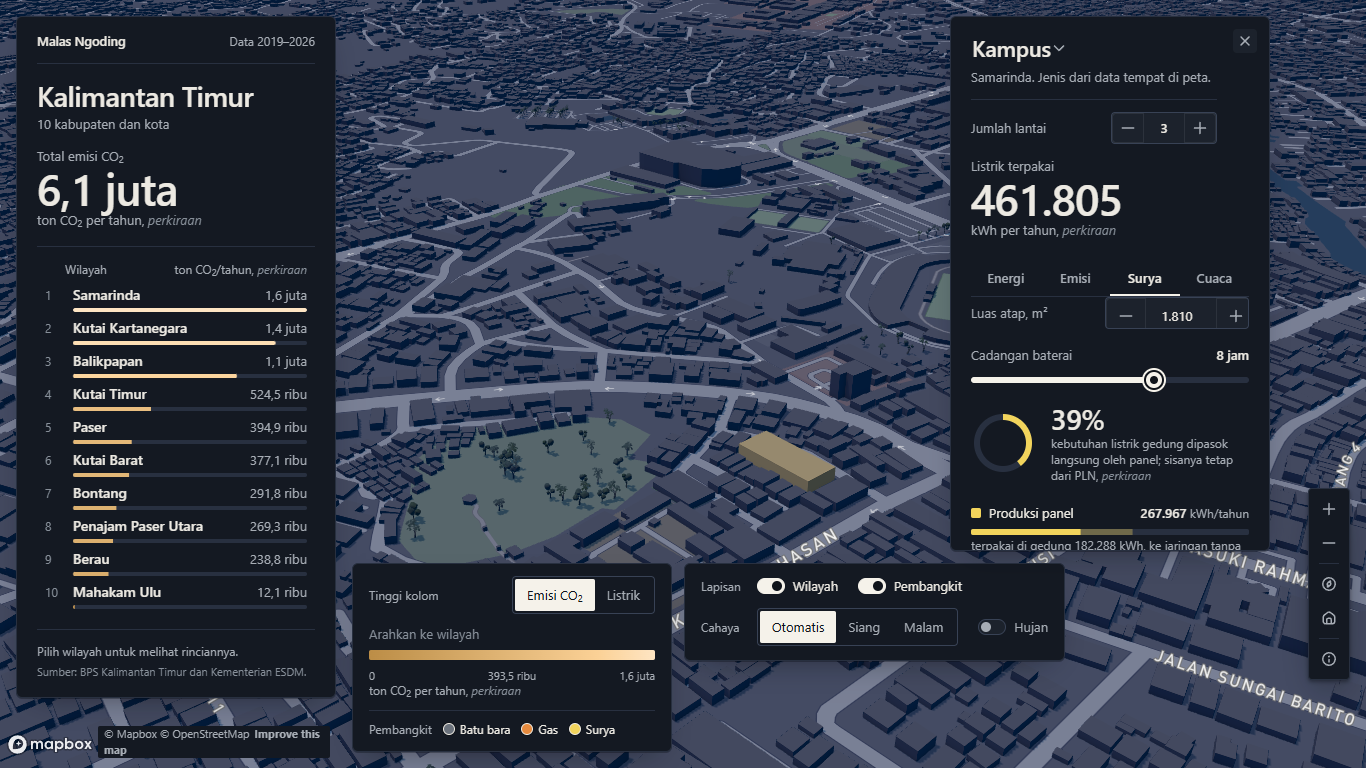
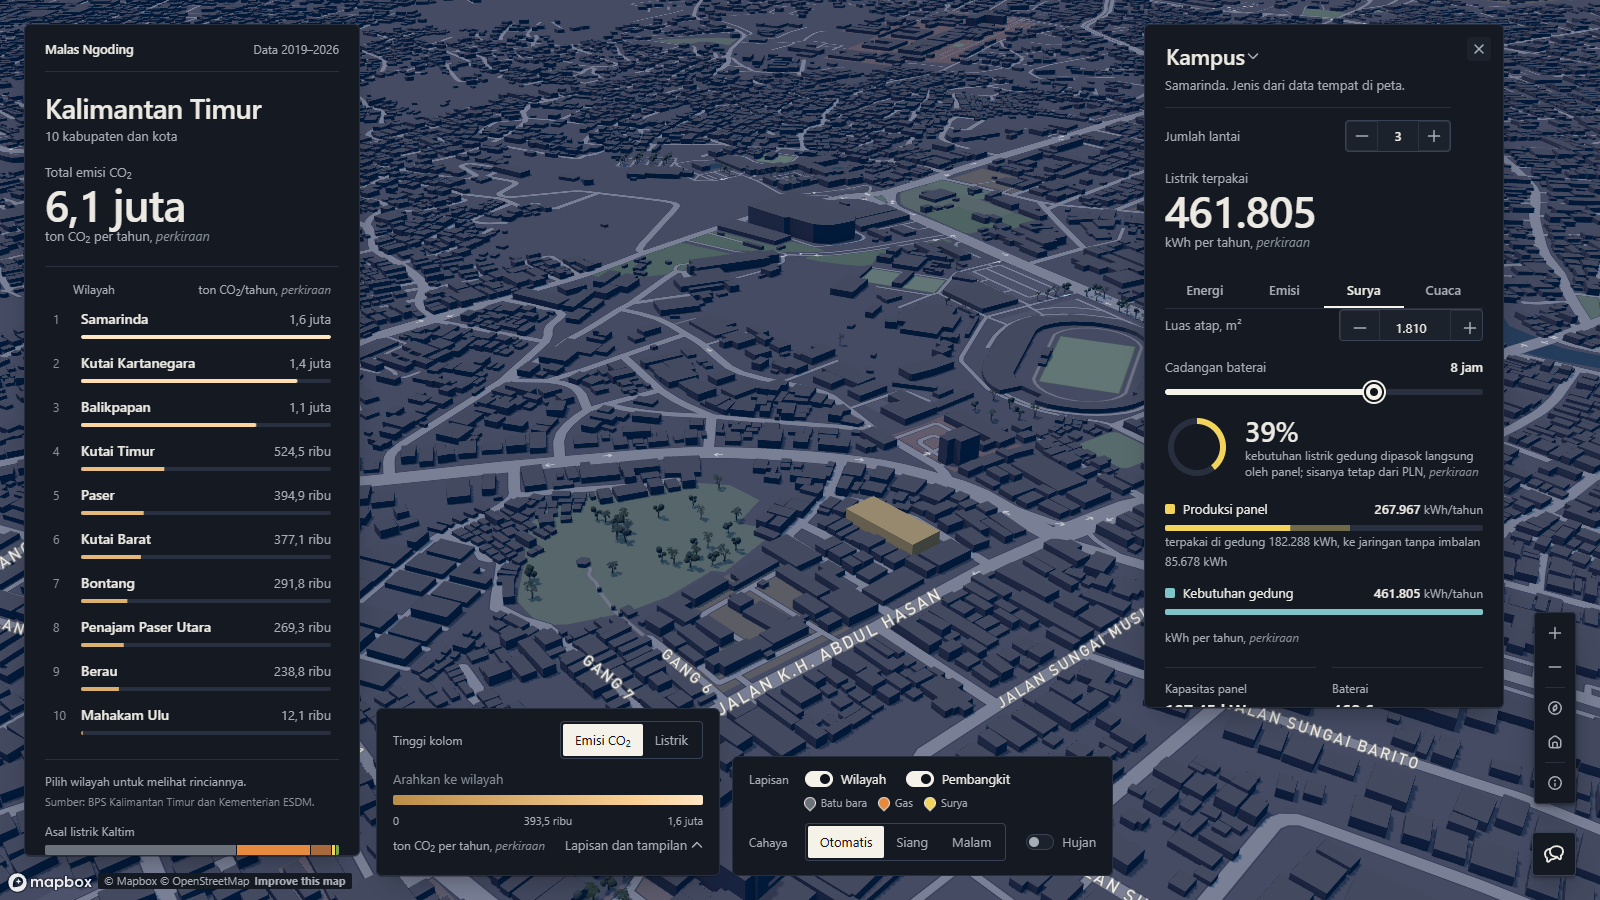
docs(repo): describe the plant pins and lapisan dan tampilan, add the equivalents route and retake the screens

diff --git a/docs/technical/demo-script.md b/docs/technical/demo-script.md
@@ -12,9 +12,10 @@ Lakukan 15 menit sebelum mulai, bukan di depan juri.
 2. **Server.** `bun start` (mode produksi, lebih ringan) atau `bun dev`. Buka `http://localhost:3000` di Chrome atau Edge terbaru dengan WebGL aktif, layar penuh (F11), zoom browser 100%.
 3. **Kunci AI.** `.env` harus berisi `MAPBOX_TOKEN` publik dan `ANTHROPIC_API_KEY` asli. Buka panel chat sekali: bila tertulis "Asisten AI belum aktif", kunci belum terbaca dan chat tidak akan menjawab (lihat bagian Cadangan).
 4. **Pemanasan cache gedung.** Cari gedung demo (lihat langkah 4 di bawah), klik, dan buka keempat tabnya sekali, termasuk Cuaca. Itu mengisi cache POI, klimatologi NASA, dan prakiraan Open-Meteo (segar 1 jam; bila sumbernya mati, prakiraan lama tetap dipakai). Tutup panel lalu muat ulang halaman.
-5. **Cahaya.** Untuk tampilan paling dramatis pakai malam: buka `http://localhost:3000/?cahaya=night`. Saklar "Cahaya" tetap bisa diubah di tengah demo. Garis hujan terlihat di semua cahaya (di cahaya terang peta menambah kabut tipis supaya garisnya tampak).
-6. **Cadangan visual.** Buka `docs/technical/screens/` di tab lain (map, building, solar, chat, rain) dan siapkan PDF dokumentasi. Itu bahan bila peta tidak bisa dimuat.
-7. **Tutup** semua notifikasi dan tab lain. Matikan jeda layar.
+5. **Cahaya.** Untuk tampilan paling dramatis pakai malam: buka `http://localhost:3000/?cahaya=night`. Saklar "Cahaya" tetap bisa diubah di tengah demo, dari balik tombol "Lapisan dan tampilan" (lihat langkah 6). Garis hujan terlihat di semua cahaya (di cahaya terang peta menambah kabut tipis supaya garisnya tampak).
+6. **Lapisan dan tampilan.** Kartu legenda di bawah hanya menampilkan saklar "Tinggi kolom" dan meter. Saklar Wilayah dan Pembangkit, kunci warna pembangkit, Cahaya, dan Hujan ada di balik tombol teks **Lapisan dan tampilan** di ujung kanan baris satuan legenda. Coba buka dan tutup sekali supaya tahu letaknya, lalu biarkan **tertutup** sebelum mulai: keadaan buka-tutupnya diingat selama tab browser masih terbuka. Bukalah di tengah demo hanya saat perlu: sebelum mengganti Cahaya, dan sebelum bagian 5 (Hujan).
+7. **Cadangan visual.** Buka `docs/technical/screens/` di tab lain (map, building, solar, chat, rain) dan siapkan PDF dokumentasi. Itu bahan bila peta tidak bisa dimuat.
+8. **Tutup** semua notifikasi dan tab lain. Matikan jeda layar.
 
 ## Alur demo
 
@@ -24,7 +25,7 @@ Lakukan 15 menit sebelum mulai, bukan di depan juri.
 | 0:45 | 2. Ringkasan provinsi | Daftar peringkat, saklar Tinggi kolom, pembangkit |
 | 1:45 | 3. Rincian wilayah | Klik Samarinda, lalu Kutai Barat, buka rekomendasi |
 | 2:45 | 4. Klik gedung | Energi, Emisi, ganti jenis, Surya, Cuaca |
-| 4:30 | 5. Hujan | Saklar Hujan di tingkat gedung |
+| 4:30 | 5. Hujan | Buka "Lapisan dan tampilan", lalu saklar Hujan di tingkat gedung |
 | 5:00 | 6. Chat | Tiga sampai empat pertanyaan yang menggerakkan peta |
 | 6:15 | 7. Metodologi dan penutup | Tentang peta ini, Cara menghitung dan sumber data |
 
@@ -40,15 +41,16 @@ Lakukan 15 menit sebelum mulai, bukan di depan juri.
   1. Tunjuk angka besar di panel kiri: total emisi sekitar 6,1 juta ton CO2 per tahun, perkiraan.
   2. Arahkan penunjuk ke kolom Samarinda, lalu ke deretan di daftar peringkat. Kolom terangkat, tooltip muncul, dan jarum meter di legenda berayun.
   3. Di kartu legenda, ganti "Tinggi kolom" dari Emisi CO2 ke Listrik dan kembali. Tinggi dan warna kolom bergerak.
-  4. Arahkan penunjuk ke satu titik pembangkit untuk memperlihatkan nama, bahan bakar, kapasitas, dan "Lokasi perkiraan".
-- **Ucapan.** *"Tinggi kolom adalah emisi per tahun. Samarinda, Kutai Kartanegara, dan Balikpapan paling tinggi. Titik berwarna adalah 13 pembangkit, abu-abu untuk batu bara. Sebagian besar listrik kita berasal dari batu bara. Semua angka ini perkiraan, kami tulis sumbernya."*
+  4. Arahkan penunjuk ke satu pin pembangkit untuk memperlihatkan nama, bahan bakar, kapasitas, dan "Lokasi perkiraan". Pin berdiri di puncak kolom wilayahnya; kepalanya berwarna menurut bahan bakar, dan pin berangka adalah beberapa pembangkit yang berdekatan (klik untuk memisahkannya).
+- **Ucapan.** *"Tinggi kolom adalah emisi per tahun. Samarinda, Kutai Kartanegara, dan Balikpapan paling tinggi. Pin berwarna adalah 13 pembangkit, abu-abu untuk batu bara. Sebagian besar listrik kita berasal dari batu bara. Semua angka ini perkiraan, kami tulis sumbernya."*
+- **Catatan.** Kunci warna bahan bakar ada di bawah saklar Pembangkit, di balik "Lapisan dan tampilan". Tidak perlu dibuka di bagian ini; tooltip pin sudah menyebut bahan bakarnya.
 
 ### 3. Rincian wilayah dan rekomendasi (1:45 sampai 2:45)
 
 - **Aksi.**
   1. Klik Samarinda (kolom atau baris daftar). Kamera terbang dan panel kiri berganti ke rincian: emisi, bagian dari listrik Kaltim, listrik per orang, penduduk, pelanggan PLN, rasio elektrifikasi, dan asal listrik Kaltim.
   2. Gulir panel ke kartu **Rekomendasi untuk Pemkot Samarinda**. Buka satu butir (butir pertama sudah terbuka): prioritas, kategori, isi, dampak yang diharapkan.
-  3. Klik "Semua wilayah", lalu klik **Kutai Barat**. Tunjuk "Desa belum dilayani PLN" (21 desa) dan buka rekomendasi pertamanya, yang pada salinan tersimpan saat ini berjudul "Usulkan listrik PLN untuk 21 desa belum berlistrik". Samarinda, yang listriknya sudah merata, mendapat saran pertama tentang PLTS atap di gedung pemerintah.
+  3. Klik "Semua wilayah", lalu klik **Kutai Barat**. Tunjuk "Desa belum dilayani PLN" (21 desa) dan buka rekomendasi pertamanya, yang pada salinan tersimpan saat ini berjudul "Usulkan penyambungan listrik PLN untuk 21 desa". Samarinda, yang listriknya sudah merata, mendapat saran pertama tentang PLTS atap di gedung pemerintah.
 - **Ucapan.** *"Untuk tiap kabupaten dan kota ada rekomendasi bagi pemerintah daerah. Claude menulisnya dari data wilayah itu saja, jadi Kutai Barat yang punya desa belum berlistrik mendapat saran yang berbeda dari Samarinda. Tulisan di kartu menyebut bahwa ini ditulis AI dan perlu diperiksa."*
 - **Catatan.** Kartu menulis "Ditulis AI (model) pada ..." bila rekomendasi dari Claude, dan "Berbasis aturan" bila AI tidak ada. Keduanya sah untuk demo.
 
@@ -66,9 +68,9 @@ Lakukan 15 menit sebelum mulai, bukan di depan juri.
 
 ### 5. Hujan (4:30 sampai 5:00)
 
-- **Aksi.** Pada pembesaran gedung (15 atau lebih), nyalakan saklar **Hujan** di kartu "Lapisan dan suasana peta". Garis hujan turun di atas gedung. Bila saat demo memang sedang hujan di Samarinda, hujan menyala sendiri (mode otomatis) dan keterangan di bawah saklar menulis "Sedang hujan di sini menurut prakiraan Open-Meteo".
+- **Aksi.** Pada pembesaran gedung (15 atau lebih), klik **Lapisan dan tampilan** di ujung kanan baris satuan legenda. Kartu kontrol terbuka di samping legenda. Nyalakan saklar **Hujan** di baris Cahaya. Garis hujan turun di atas gedung. Bila saat demo memang sedang hujan di Samarinda, hujan menyala sendiri (mode otomatis) dan keterangan di bawah saklar menulis "Sedang hujan di sini menurut prakiraan Open-Meteo".
 - **Ucapan.** *"Saklar hujan bawaannya otomatis: peta ikut hujan bila prakiraan di pusat peta mengatakan sedang hujan. Di tampilan provinsi efeknya sengaja tidak tampak, supaya tidak menutupi kolom."*
-- **Catatan.** Matikan lagi saklarnya sebelum ke bagian chat.
+- **Catatan.** Matikan lagi saklarnya, lalu tutup "Lapisan dan tampilan" (klik tombol yang sama) sebelum ke bagian chat, supaya legenda kembali satu kartu.
 
 ### 6. Chat yang menggerakkan peta (5:00 sampai 6:15)
 
@@ -76,7 +78,7 @@ Buka tombol chat di pojok kanan bawah. Pakai pertanyaan di bawah, berurutan. Jaw
 
 | Pertanyaan | Yang terjadi kira-kira | Yang ditunjukkan |
 |---|---|---|
-| "Wilayah mana emisinya paling tinggi?" | Claude memanggil `list_regions`, lalu aksi `show_all_regions` dan `set_metric`. Peta kembali ke seluruh Kaltim dan mengurutkan menurut emisi. | Angka datang dari alat, bukan ingatan |
+| "Wilayah mana emisinya paling tinggi?" | Claude memanggil `list_regions`, lalu aksi `set_metric` dan `fly_to_region` ke wilayah tertinggi (Samarinda). Peta terbang ke wilayah itu, di sebelah kiri panel chat. Pertanyaan yang membandingkan semua wilayah memakai `show_all_regions`: seluruh Kaltim tampil di sebelah kiri panel chat. | Angka datang dari alat, bukan ingatan |
 | "Tunjukkan gedung sekolah di Samarinda" | `find_places` mencari sekolah, lima tempat ditandai di peta, lalu aksi `select_building_at` memilih satu gedung dan panel gedung terbuka dengan jenis Sekolah. | Chat menggerakkan peta dan membuka panel |
 | "Kalau gedung ini pakai panel surya?" | `simulate_solar` dengan data gedung terpilih, lalu aksi `open_tab` membuka tab Surya. | Angka chat sama dengan angka tab Surya |
 | "Besok hujan? Berapa listrik suryanya?" | `get_weather`, lalu tab Cuaca terbuka. | Prakiraan dan produksi panel |

diff --git a/README.md b/README.md
@@ -13,12 +13,13 @@ Semua angka per gedung dan per wilayah adalah **perkiraan** hasil model, bukan d
 ## Fitur
 
 - **Peta 3D Kalimantan Timur.** Peta Mapbox Standard dengan medan 3D. Sepuluh kabupaten dan kota berdiri sebagai kolom 3D; tinggi dan warnanya menurut emisi CO2 per tahun atau listrik terpakai (saklar "Tinggi kolom"). Arahkan penunjuk untuk melihat nilainya, klik untuk membuka rincian: penduduk, pelanggan PLN, rasio elektrifikasi, desa yang belum dilayani PLN, listrik per orang, dan asal listrik Kaltim. Pembukanya animasi kamera dari globe ke Kalimantan Timur.
-- **Pembangkit listrik.** Tiga belas pembangkit tampil sebagai titik berwarna menurut bahan bakar dan berukuran menurut MW; pembangkit yang berdekatan digabung menjadi satu penanda berangka. Arahkan penunjuk untuk melihat nama, bahan bakar, dan kapasitasnya; keterangan menampilkan status, dan "Lokasi perkiraan" bila koordinatnya belum pasti (9 dari 13).
+- **Pembangkit listrik.** Tiga belas pembangkit tampil sebagai pin yang berdiri di puncak kolom wilayahnya, kepalanya berwarna menurut bahan bakar dan berukuran menurut MW; pembangkit yang berdekatan digabung menjadi satu pin berangka. Arahkan penunjuk untuk melihat nama, bahan bakar, dan kapasitasnya; keterangan menampilkan status, dan "Lokasi perkiraan" bila koordinatnya belum pasti (9 dari 13).
+- **Legenda dan "Lapisan dan tampilan".** Kartu legenda di bawah selalu tampil: saklar "Tinggi kolom" dan meter dengan jarumnya. Saklar lapisan (Wilayah, Pembangkit, dengan kunci warna bahan bakar di bawahnya), Cahaya, dan Hujan ada di balik tombol teks "Lapisan dan tampilan" di ujung kanan legenda. Tombol itu tertutup di awal sesi dan keadaannya diingat selama sesi.
 - **Cahaya dan hujan.** Cahaya peta mengikuti jam di Kalimantan Timur (fajar, siang, senja, malam) atau dikunci lewat saklar "Cahaya". Saklar "Hujan" bawaannya otomatis: peta ikut hujan bila prakiraan Open-Meteo di pusat peta mengatakan sedang hujan, dan efeknya terlihat saat peta diperbesar sampai tingkat gedung. Saklar itu juga bisa menyalakan atau mematikan hujan secara manual.
 - **Klik gedung mana pun.** Panel gedung menampilkan perkiraan listrik per tahun dan per bulan (tab Energi), bauran sumber listrik di baliknya, CO2 per tahun, dan padanan yang mudah dibayangkan: km naik mobil, pohon, charge HP, penerbangan (tab Emisi). Jenis gedung (12 pilihan) dan jumlah lantai bisa diubah dan angkanya dihitung ulang. Jenis gedung ditebak dari tempat terdekat di peta, atau dari luas bila tidak ada.
 - **Tab Surya.** Simulasi panel surya dari luas atap dan jam cadangan baterai: jumlah dan kapasitas panel, produksi per tahun, bagian yang dipakai langsung di gedung lawan yang masuk jaringan tanpa imbalan, ukuran baterai, biaya, penghematan, balik modal, dan CO2 yang dihindari. Tarif PLN dan jam pemakaian mengikuti jenis gedung (contohnya kantor pemerintah memakai tarif P-1 dan dihitung dipakai sekitar 250 hari setahun, sedangkan sekolah sekitar 200 hari). Grafik jam matahari per bulan dari NASA POWER dan daftar asumsi ikut tampil.
 - **Tab Cuaca.** Prakiraan 7 hari dari Open-Meteo untuk panel yang sama dengan tab Surya: grafik produksi per jam selama 72 jam dengan jam hujan diarsir, dan daftar produksi per hari yang menulis seberapa jauh tiap hari turun dari langit cerah dan sebabnya (hujan atau awan).
-- **Rekomendasi untuk pemerintah.** Di rincian tiap kabupaten dan kota ada kartu "Rekomendasi untuk Pemkab" atau "Pemkot": tiga sampai enam saran berprioritas, ditulis Claude dari data wilayah itu dan disimpan di database. Bila AI tidak tersedia, kartu memakai saran berbasis aturan dan menulis itu dengan jelas.
+- **Rekomendasi untuk pemerintah.** Di rincian tiap kabupaten dan kota ada kartu "Rekomendasi untuk Pemkab" atau "Pemkot": tiga sampai enam saran berprioritas, ditulis Claude dari data wilayah itu dan disimpan di database. Tombol "Perbarui" di samping judul meminta Claude menulis ulang. Angka PLTS atap di kartu dihitung dengan model yang sama dengan tab Surya untuk kantor pemerintah, jadi balik modalnya sama. Bila AI tidak tersedia, kartu memakai saran berbasis aturan dan menulis itu dengan jelas.
 - **Lembar "Cara menghitung dan sumber data".** Dibuka dari tombol "Tentang peta ini": rumus, tabel faktor (baris asumsi bertanda), dan semua sumber data dengan lisensinya.
 - **Chat AI yang menggerakkan peta.** Tanyakan sesuatu dalam bahasa Indonesia, misalnya "Tunjukkan gedung sekolah di Samarinda" atau "Wilayah mana emisinya paling tinggi?". Claude memakai alat yang membaca data aplikasi (statistik wilayah, bauran listrik, perkiraan gedung, simulasi surya, cuaca, `get_recommendations`, dan pencarian tempat `find_places`), lalu menggerakkan peta: terbang ke wilayah, menandai tempat hasil pencarian, memilih gedung, membuka tab Surya atau Cuaca, mengganti metrik, lapisan, atau hujan. Di bawah jawaban muncul tombol untuk tiap aksi yang bisa dijalankan lagi.
 
@@ -185,7 +186,7 @@ Perangkat lunak pihak ketiga: Bun, React, HeroUI, Motion, Zustand, dan Tailwind 
 - **Listrik per wilayah** adalah perkiraan: penjualan PLN per cabang (BPS 2024) dibagi ke wilayah menurut jumlah pelanggan, dengan beberapa asumsi yang tertulis di dokumen metodologi. Ketidakpastiannya sekitar 30% untuk wilayah dengan banyak industri.
 - **CO2** = kWh × faktor emisi resmi Sistem Mahakam, **1,14 kg CO2/kWh** (data 2019, lebih tinggi dari rata-rata bauran karena berupa *combined margin*). Rincian per sumber memakai bauran listrik 2024 perkiraan kami (batu bara 66%, gas 25%, diesel 7%, surya 1%, biomassa 1%).
 - **Gedung:** kWh per tahun = luas lantai dasar × jumlah lantai × intensitas energi per jenis gedung. Jenis gedung ditebak dari POI terdekat, atau dari luas bila tidak ada POI, dan bisa diubah pengguna.
-- **Panel surya:** hasil per kWp = jam puncak matahari (NASA POWER) × 365 × 0,78. Panel hanya menghemat listrik yang dipakai langsung di gedung (kelebihan ke jaringan tidak dibayar, Permen ESDM 2/2024), jadi ukuran dan penghematan mengikuti porsi pemakaian siang, hari pakai per tahun, dan golongan tarif PLN menurut jenis gedung. CO2 yang dihindari memakai faktor PLTS 1,13 kg CO2/kWh. Biaya dan tarif memakai asumsi 2026.
+- **Panel surya:** hasil per kWp = jam puncak matahari (NASA POWER) × 365 × 0,78. Panel hanya menghemat listrik yang dipakai langsung di gedung (kelebihan ke jaringan tidak dibayar, Permen ESDM 2/2024), jadi ukuran dan penghematan mengikuti porsi pemakaian siang, hari pakai per tahun, dan golongan tarif PLN menurut jenis gedung. CO2 yang dihindari dihitung dari listrik yang dipakai sendiri (yang masuk jaringan tidak dihitung) dengan faktor PLTS 1,13 kg CO2/kWh. Jumlah panel dibulatkan turun, paling sedikit satu panel. Biaya dan tarif memakai asumsi 2026.
 - **Cuaca:** produksi per jam = kWp × radiasi Open-Meteo × 0,78, dibandingkan dengan produksi panel yang sama di bawah langit cerah (model Haurwitz).
 - **Rekomendasi dan chat:** ditulis Claude hanya dari angka aplikasi. Chat mengambil angka lewat alat yang memakai rumus di atas, jadi angka di chat sama dengan angka di panel.
 

diff --git a/docs/technical/architecture.md b/docs/technical/architecture.md
@@ -114,7 +114,7 @@ Tidak ada Vite, Express, atau alat khusus Node: Bun menangani semuanya.
 |---|---|
 | `map/MapView.tsx` | Membuat peta Mapbox, memasang medan dan lapisan data, memutar intro, dan menangani kegagalan (token ditolak, WebGL mati, gaya peta gagal, terlalu lama). |
 | `map/regionsLayer.ts`, `columns.ts`, `regionLabels.ts` | Kolom 3D per wilayah, animasi tinggi, hover dan klik, dan nama wilayah di atas kolom. |
-| `map/plantsLayer.ts`, `fuels.ts` | Titik pembangkit, penanda gabungan untuk pembangkit yang berdekatan, dan keterangannya. |
+| `map/plantsLayer.ts`, `plantGroups.ts`, `fuels.ts` | Pin pembangkit yang berdiri di puncak kolom wilayahnya (satu lapisan pin per kolom, ikut naik turun bersama kolom), pin berangka untuk pembangkit yang berdekatan, dan keterangannya. |
 | `map/effects.ts`, `camera.ts` | Cahaya mengikuti jam WITA, efek hujan, serta gerak kamera (intro, terbang ke wilayah, orbit saat diam). |
 | `map/buildings.ts` | Gedung yang bisa diklik lewat `map.addInteraction`: luas dasar dari poligon, titik tengah, pilihan dan sorotan gedung, medan dimatikan di pembesaran tinggi, dan pemilihan gedung di satu titik untuk chat. |
 | `map/autoRain.ts` | Hujan otomatis: membaca cuaca di pusat peta (saat mulai, setelah kamera pindah jauh, tiap 10 menit) dan menyalakan efek hujan bila sedang hujan. |
@@ -124,7 +124,7 @@ Tidak ada Vite, Express, atau alat khusus Node: Bun menangani semuanya.
 | `panels/RecommendationPanel.tsx` | Kartu "Rekomendasi untuk Pemkab atau Pemkot": daftar bertingkat prioritas, asal teks (AI atau aturan), pemuatan dan galat. |
 | `panels/MethodologyPanel.tsx` | Lembar samping "Cara menghitung dan sumber data" (dibuka dari "Tentang peta ini"): rumus, tabel faktor dengan baris asumsi bertanda, dan semua sumber dengan lisensinya. |
 | `chat/` | Panel chat: `useChat.ts` (percakapan di `localStorage`, kirim pertanyaan, hentikan, ulangi), `sse.ts` (membaca aliran), `ChatPanel.tsx`, `actionLabels.ts` (tombol aksi di bawah jawaban), `placesLayer.ts` (penanda tempat hasil `find_places`), dan `markdown.tsx` (Markdown ringan). |
-| `panels/Legend.tsx`, `MapControls.tsx` | Dua kartu di bawah: legenda (saklar metrik, meter, kunci pembangkit) dan kontrol peta (lapisan, cahaya, hujan). |
+| `panels/Dock.tsx`, `Legend.tsx`, `MapControls.tsx` | Dok di bawah. Selalu tampil: kartu legenda (saklar "Tinggi kolom" dan meter). Di balik tombol "Lapisan dan tampilan" (HeroUI Disclosure, tertutup di awal sesi, keadaannya diingat selama sesi): kartu kontrol peta (lapisan Wilayah dan Pembangkit dengan kunci bahan bakar di bawahnya, Cahaya, Hujan), yang terbuka di samping legenda. |
 | `panels/MapTools.tsx` | Alat peta di kanan bawah: perbesar, perkecil, hadap utara, kembali ke seluruh provinsi, dan "Tentang peta ini". |
 | `components/` | Komponen kecil yang dipakai ulang: pilihan tersegmen dan saklar (di atas HeroUI), angka berjalan, CO2 dengan subskrip, intro. |
 | `store.ts`, `api.ts` | State aplikasi (Zustand) dan fungsi `fetch` bertipe ke semua endpoint. |
@@ -142,6 +142,7 @@ Semua jalur di bawah `/api/`, tanpa nomor versi. Galat selalu berbentuk `{ "erro
 | `GET /api/regions/:id` | Satu wilayah | | Ringkasan wilayah dan `centroid` | 404 bila id tidak dikenal |
 | `GET /api/plants` | Pembangkit | | GeoJSON titik: nama, bahan bakar, MW, status, `approx` | 500 |
 | `GET /api/grid` | Bauran listrik dan faktor emisi tahun terbaru | | `GridMix` | 500 |
+| `GET /api/equivalents` | Faktor padanan CO2 (km mobil, km motor, pohon, charge HP, penerbangan) | | Daftar `EquivalentFactor`: `key`, `label`, `kgCo2PerUnit`, `unit` | 500 |
 | `POST /api/buildings/estimate` | Perkiraan satu gedung | `featureId`, `lng`, `lat`, `footprintM2`, `heightM`, opsional `poiClass`, `poiType`, `typeOverride`, `floorsOverride`, `typeHint` | `BuildingEstimate` | 400 bila isian tidak valid |
 | `POST /api/solar/simulate` | Simulasi panel surya | `lat`, `lng`, `roofAreaM2`, `kwhYear`, `backupHours`, opsional `buildingType` | Hasil simulasi, `peakSunHours`, `pshByMonth`, `assumptions` | 400 bila isian tidak valid |
 | `GET /api/weather?lat=&lng=&kWp=` | Prakiraan 7 hari dan produksi panel | | `{ hours, days, current, stale }` | 400 bila isian tidak valid; 503 bila tidak ada prakiraan sama sekali |
